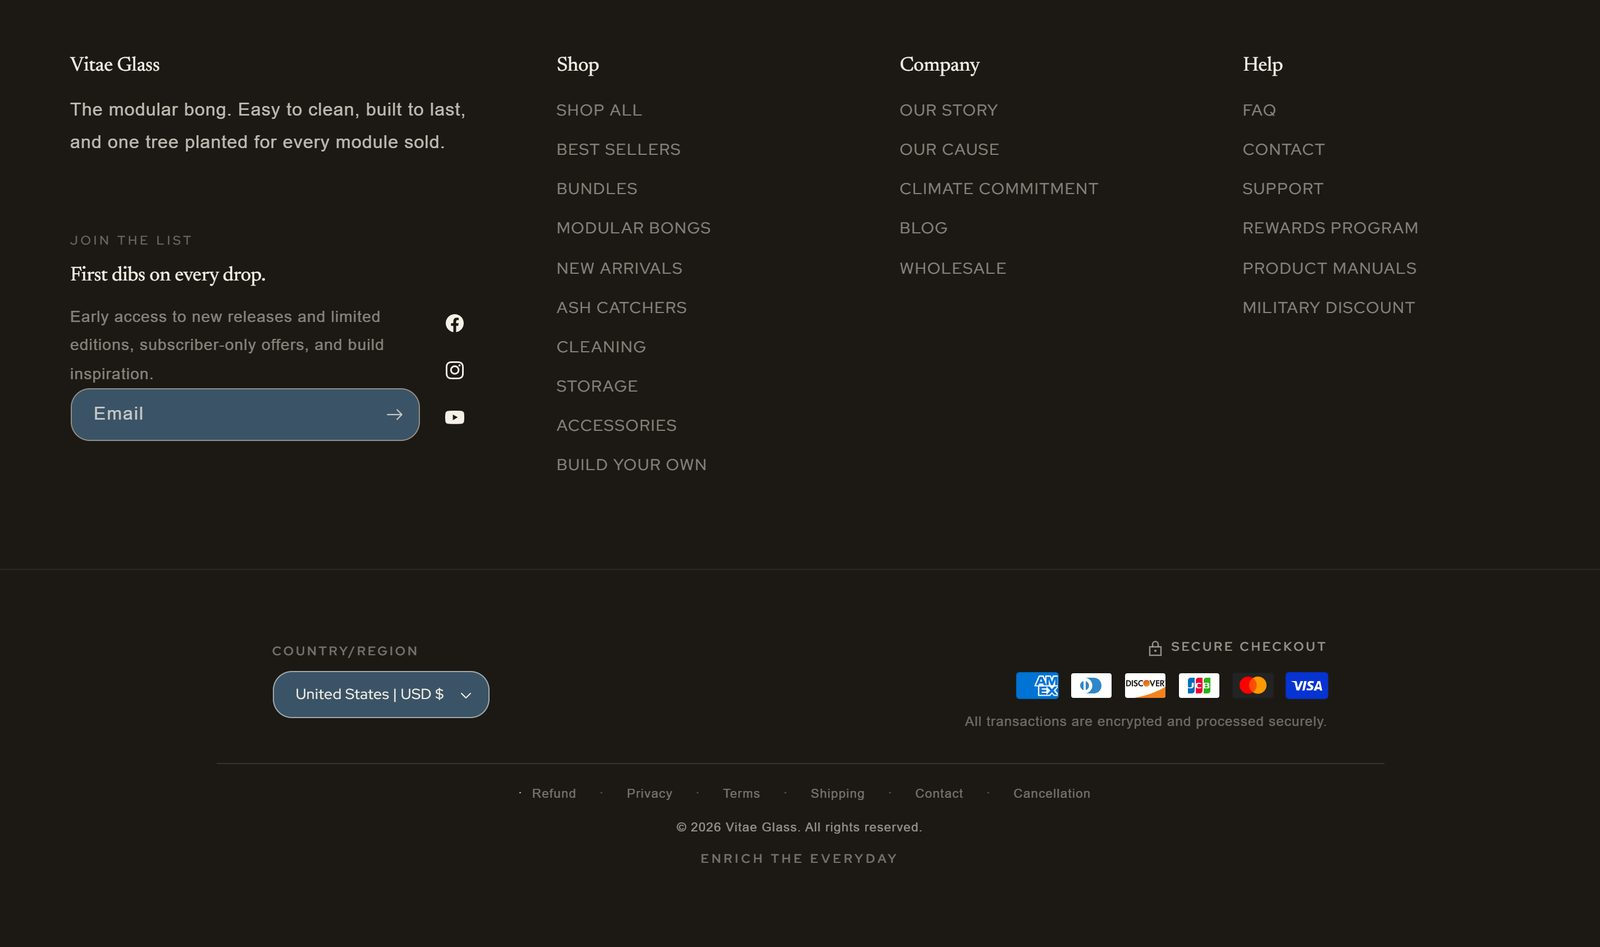
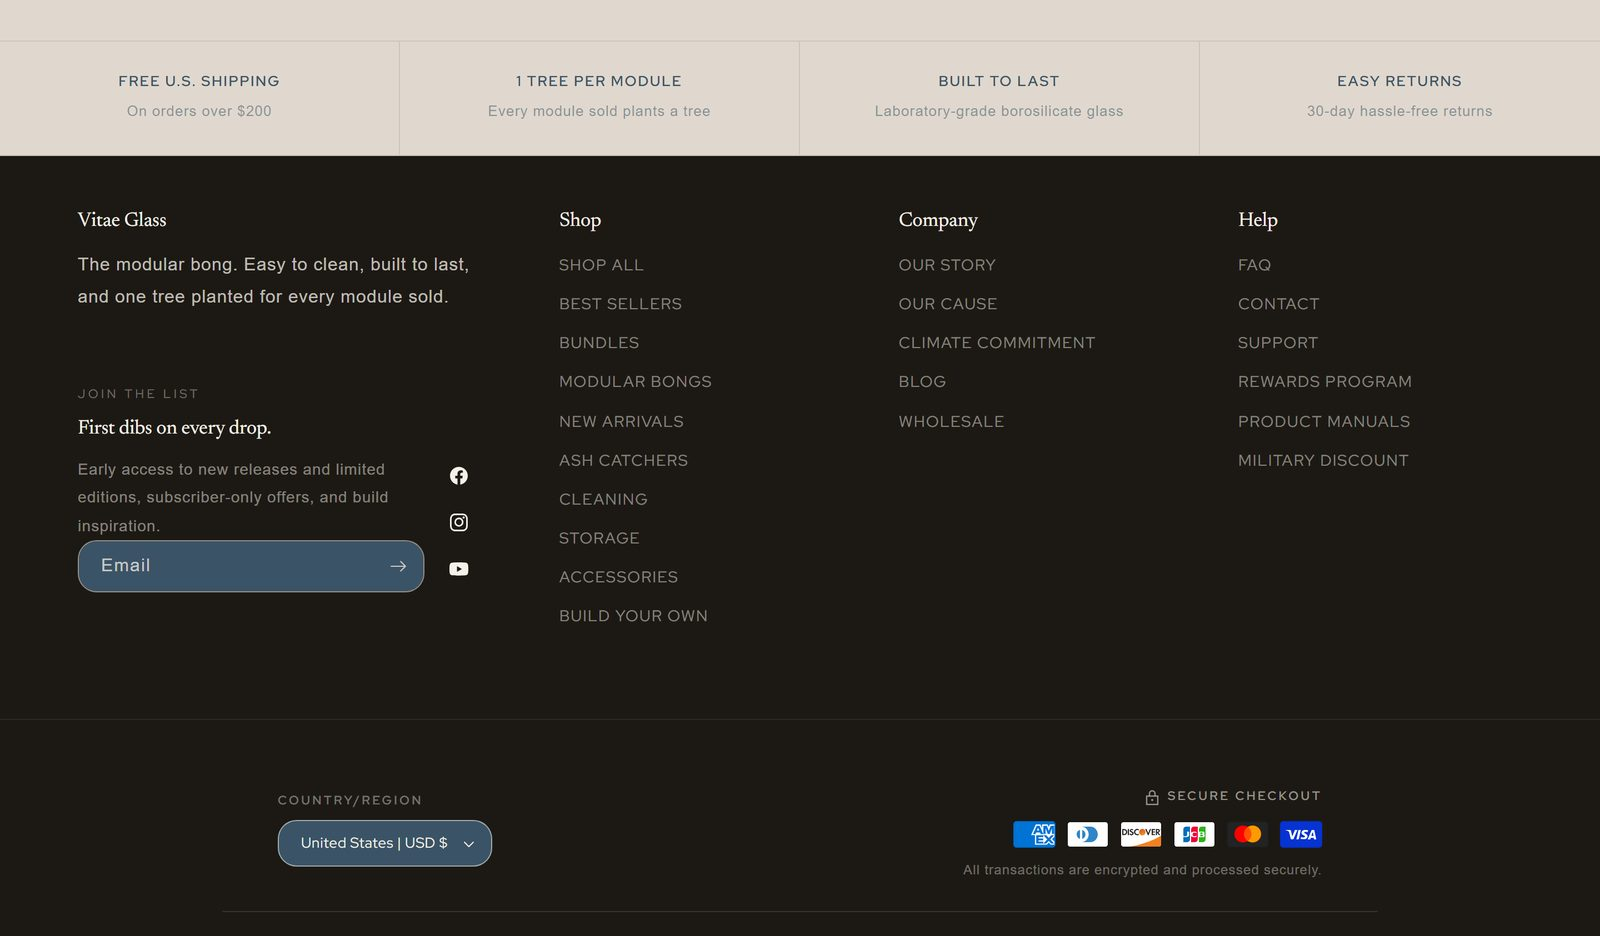
October 22 walkthrough: recaptured footer and best sellers

diff --git a/public/updates/october-22/index.html b/public/updates/october-22/index.html
@@ -137,11 +137,11 @@
     <p>
       The spacing between links, headings and sections is tighter everywhere.
       On phones the Shop links now sit in a left column, with Company and Help stacked beside them on the right, instead of three long lists one after another.
-      The phone footer is about a third shorter and the desktop footer about 10% shorter, and every link is still there.
+      The phone footer is about 40% shorter, the desktop footer is slightly tighter (about 10% shorter), and every link and line of text is still there.
     </p>
     <div class="pair narrow">
       <figure class="phone"><figcaption class="before">Before, on a phone<small>Scroll inside the card to see it all.</small></figcaption><div class="scrollshot"><img src="media/footer-phone-before.jpg" alt="Tall phone footer with three stacked link lists"></div></figure>
-      <figure class="phone"><figcaption class="after">After, on a phone<small>About a third shorter.</small></figcaption><div class="scrollshot"><img src="media/footer-phone-after.jpg" alt="Compact phone footer with links in two columns"></div></figure>
+      <figure class="phone"><figcaption class="after">After, on a phone<small>About 40% shorter, nothing removed.</small></figcaption><div class="scrollshot"><img src="media/footer-phone-after.jpg" alt="Compact phone footer with links in two columns"></div></figure>
     </div>
     <div class="pair">
       <figure><figcaption class="before">Before, desktop</figcaption><img src="media/footer-desktop-before.jpg" alt="Desktop footer before"></figure>
